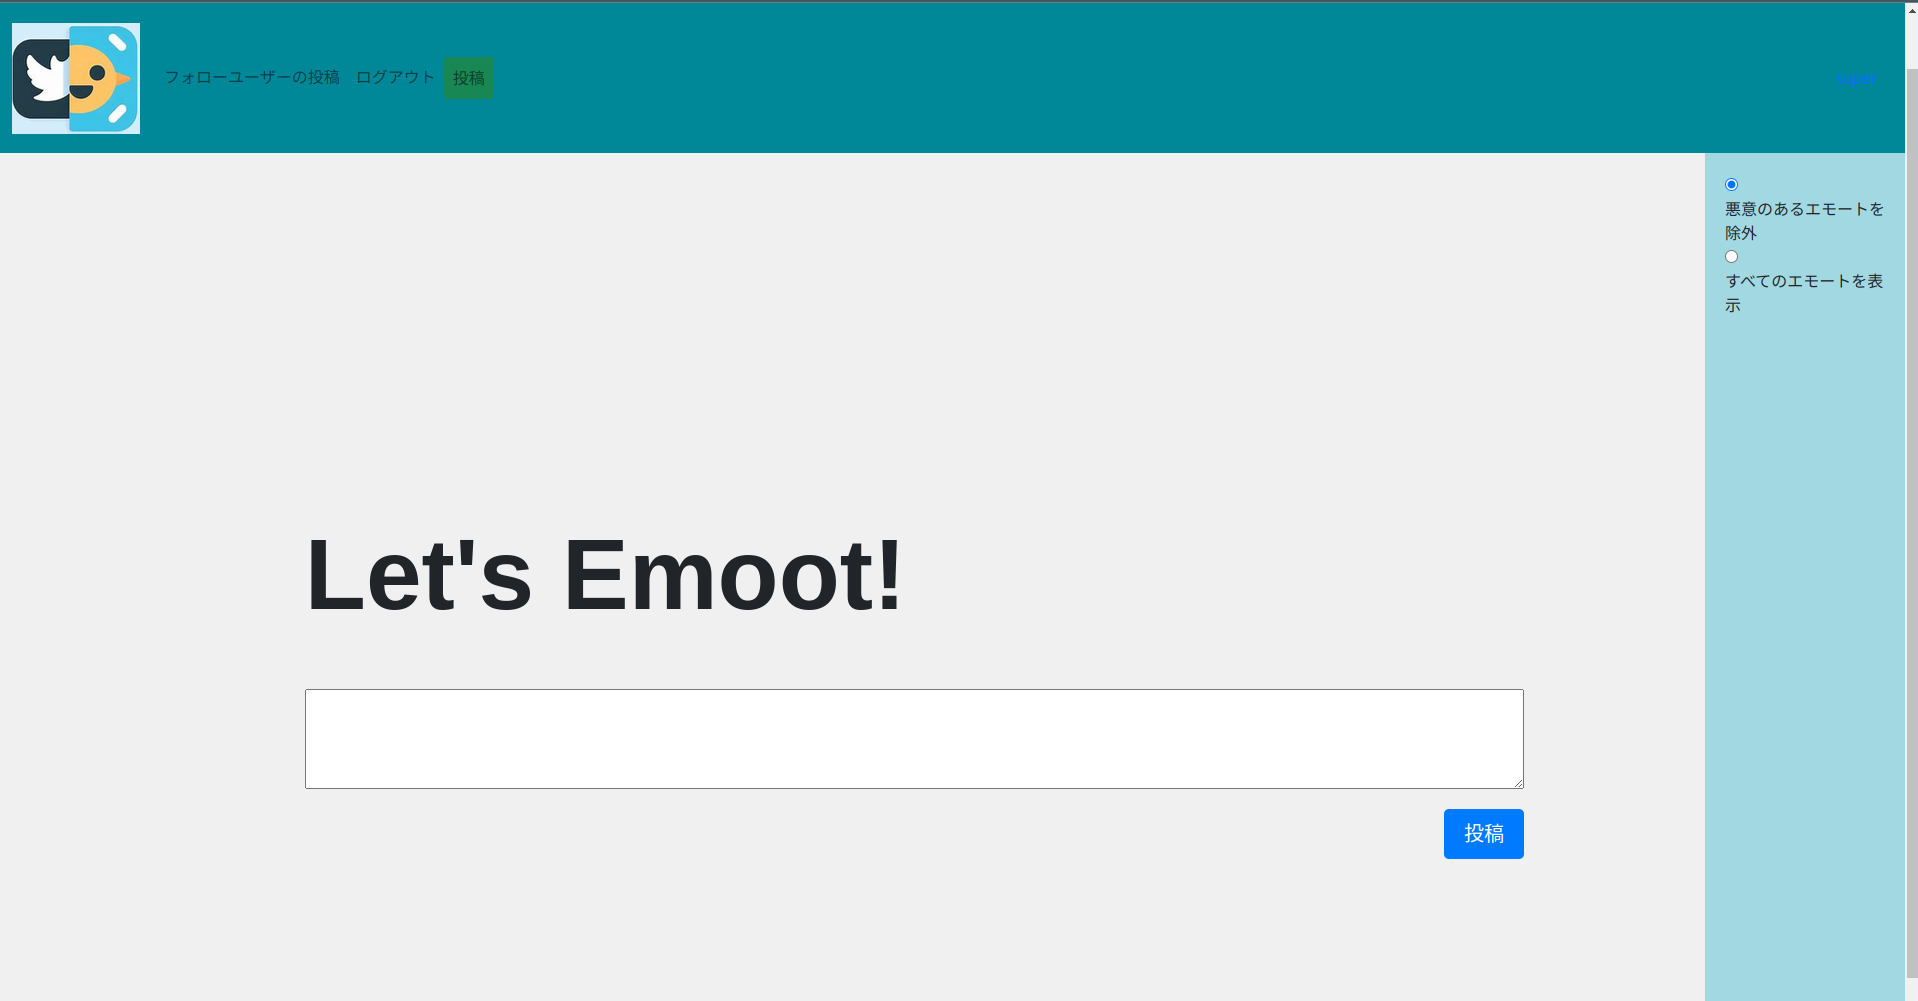
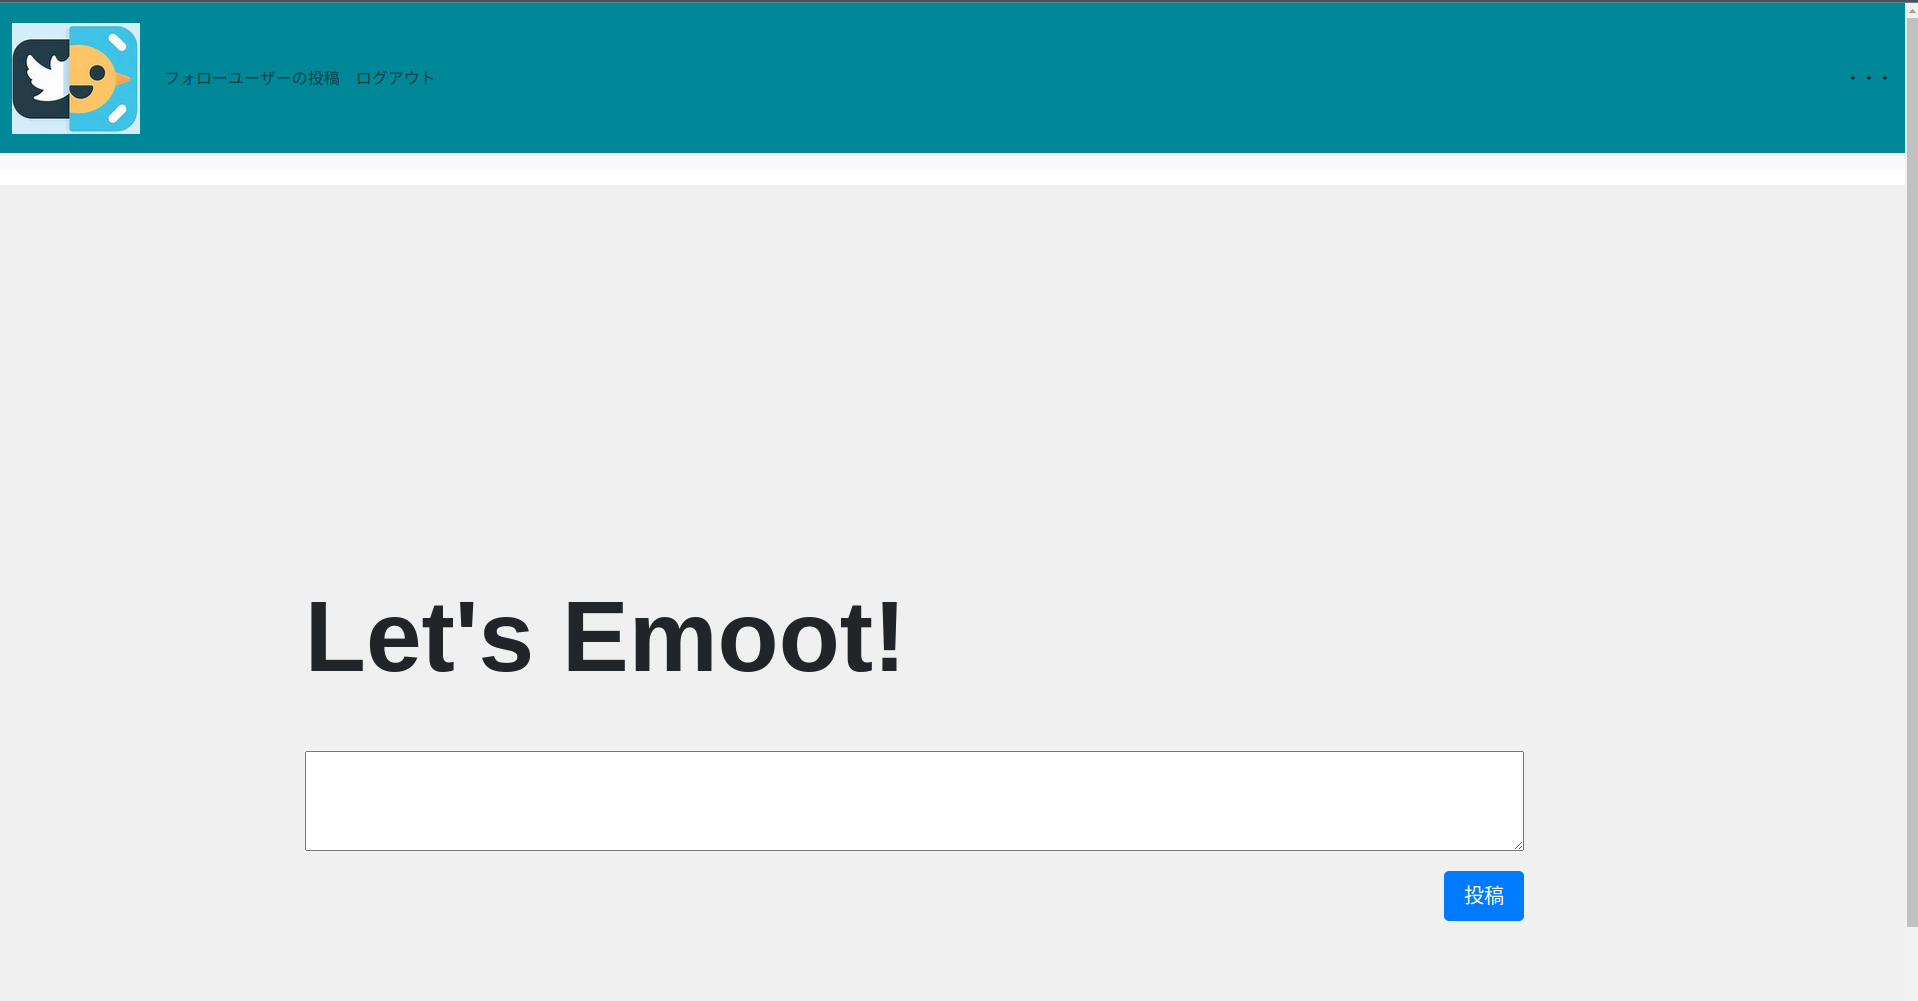
code freeze

diff --git a/templates/base.html b/templates/base.html
@@ -29,11 +29,11 @@
             <div class="navbar-nav">
               <a class="nav-link" href="{% url 'follow-list' %}">フォローユーザーの投稿</a>
               <a class="nav-link" href="/accounts/logout/">ログアウト</a>
-              <a class="nav-link btn btn-success" href="{% url 'create' %}" role="button">投稿</a>
+              <a class="nav-link btn btn-success fixed-button" href="{% url 'create' %}" role="button">投稿</a>
             </div>
           </div>
           <div>
-            <a class="nav-link" href="{% url 'mypost' %}">{{request.user.username}}</a>
+            <span id="sidebar-toggle">・・・</span>
           </div>
         </div>
       </nav>
@@ -50,15 +50,6 @@
         </div>
       </div>
 
-      <script>
-      let radioButtons = document.getElementsByName("emoot-choice");
-
-      radioButtons.forEach((button) => {
-        button.addEventListener('change', (event) => {
-          // output.textContent = 'Changed value: ' + event.target.value;
-        });
-      });
-      </script>
       <style>
       body {
         margin-top: 150px;
@@ -73,18 +64,40 @@
         z-index: 1;
       }
 
+      #sidebar .nav-link {
+        font-size: 20px;  /* ユーザー名のフォントサイズを大きくします */
+      }
+
       #sidebar {
         position: fixed;
-        right: 0;
-        top: 0;
-        height: 100%;
+        right: -200px;
+        top: 150px;  /* サイドバーの上端をヘッダーの下に移動します */
+        height: calc(100% - 150px);  /* サイドバーの高さを調整します */
         width: 200px;
         background-color: #a1d8e2;
-        margin-top: 150px;
+        transition: right 0.5s;
+      }
+      .fixed-button {
+        position: fixed;
+        /* size */
+        width: 120px;
+        height: 40px;
+        right: 20px;
+        bottom: 20px;
       }
       </style>
+      <script>
+        let sidebarToggle = document.getElementById('sidebar-toggle');
+        let sidebar = document.getElementById('sidebar');
 
-
+        sidebarToggle.addEventListener('click', () => {
+          if (sidebar.style.right === '0px') {
+            sidebar.style.right = '-200px';
+          } else {
+            sidebar.style.right = '0px';
+          }
+        });
+      </script>
       {% block content %}
       {% endblock content %}
       <script src="https://cdn.jsdelivr.net/npm/@popperjs/core@2.9.1/dist/umd/popper.min.js" integrity="sha384-SR1sx49pcuLnqZUnnPwx6FCym0wLsk5JZuNx2bPPENzswTNFaQU1RDvt3wT4gWFG" crossorigin="anonymous"></script>

diff --git a/README.md b/README.md
@@ -9,6 +9,14 @@
 表情認識+自然言語感情認識を組み合わせた新感覚SNS。  
 表情と文章から検出された感情が一致しないコメントを悪意のある投稿（≒嘘）と定義し、その一致頻度とタイムラインの掲載頻度を紐づけることで正直者が多いSNSを作ることができる。  
 
+現行のバージョンでは、ネガポジの二値分類のみ対応している。  
+- ネガティブ：😥
+- ポジティブ： 🥰
+- ニュートラル： 😐
+- カメラ出力なし： 🙃
+
+右のサイドバーのラジオボタンを切り替えることで、タイムライン上のエモート（投稿）についてフィルターをかけることができる。  
+
 - タイムライン
 ![IMAGE ALT TEXT HERE](./assets/Timeline.png)
 
@@ -17,11 +25,11 @@
 
 ### 特長
 #### 1. 感情解析
-- pythonの表情検出ライブラリであるFERと既存の学習済みモデルをファインチューニングしたモデルを用いた2段階感情検出。  
+- pythonの表情検出ライブラリであるFERと既存の学習済みモデルをファインチューニングしたモデルを用いた2種類の感情検出を使用  
 #### 2. 一致検証
-- 上記の2つ検出結果が一致しなかった場合は、ユーザー登録の際にあらかじめ割り振った点数から減点し、その点数に応じてタイムラインに表示される頻度が増減する。  
+- プライバシーを尊重しながらエモートと感情検出結果を保存し、一致していない場合にはインプレッションが下がるように対応  
 #### 3. ユーザー体験
-- 初心者や他のSNSの喧騒に疲れたユーザーに向けてやさしいSNSを提供  
+- インターネットリテラシーの低い低学年や他のSNSでの喧騒に疲れたユーザーに向けてやさしいSNSを提供  
 
 ### 解決出来ること
 - よい感情表現  
@@ -30,9 +38,11 @@
 - ネガポジの二値分類から多クラス分類へ対応  
 - 検出精度の向上  
 - UIのさらなる改善  
+- 画像を解析を用いて画像もエモートできるようにしたい
 ### 注力したこと（こだわり等）
 * プライバシー保護のため画像をDBに保存せずに処理をすること  
 * UIの部分について新感覚のSNS体験を提供できるように心がけた  
+- インターフェースの配色についてはすべてエモい色で統一
 
 ## 開発技術
 ### 活用した技術
@@ -53,5 +63,5 @@
 #### ハッカソンで開発した独自機能・技術
 * SNS部分のUI
 * BERTを東北大学の提供している日本語感情分類データセットでファインチューニング  
-* プライバシー保護のために画像をデータURIに変換し感情抽出処理を行った部分に苦心しました。  
+* プライバシー保護のために画像をデータURIに変換し感情抽出処理を行った部分に苦心した。  
 [該当箇所](./snsapp/views.py#L202)  
